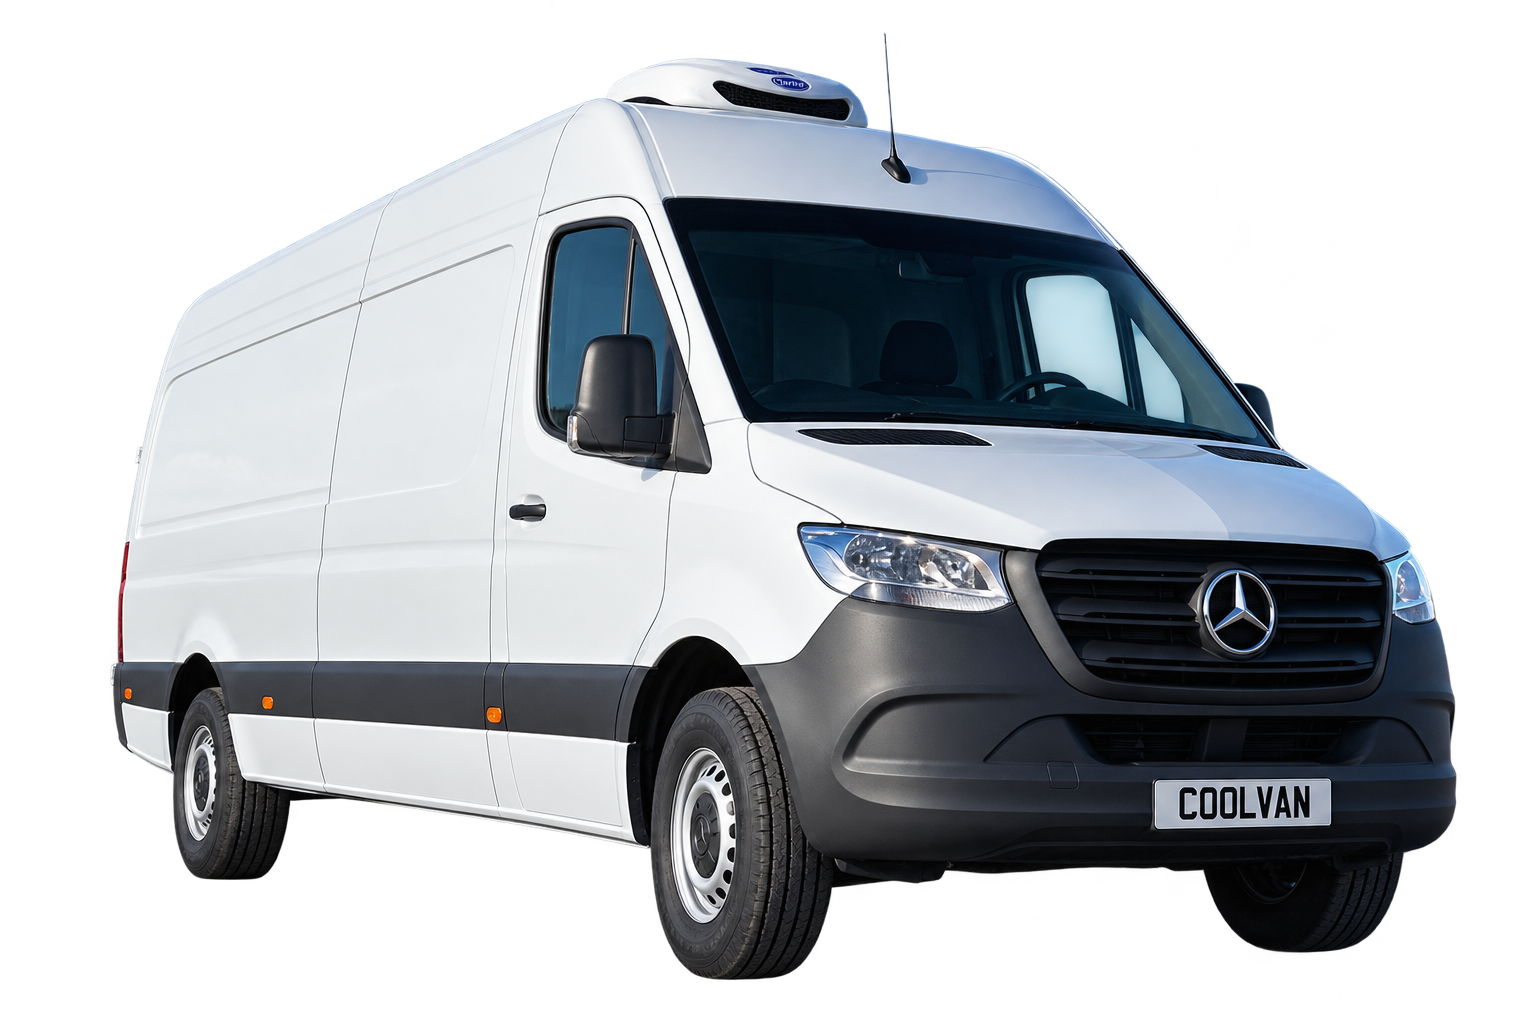
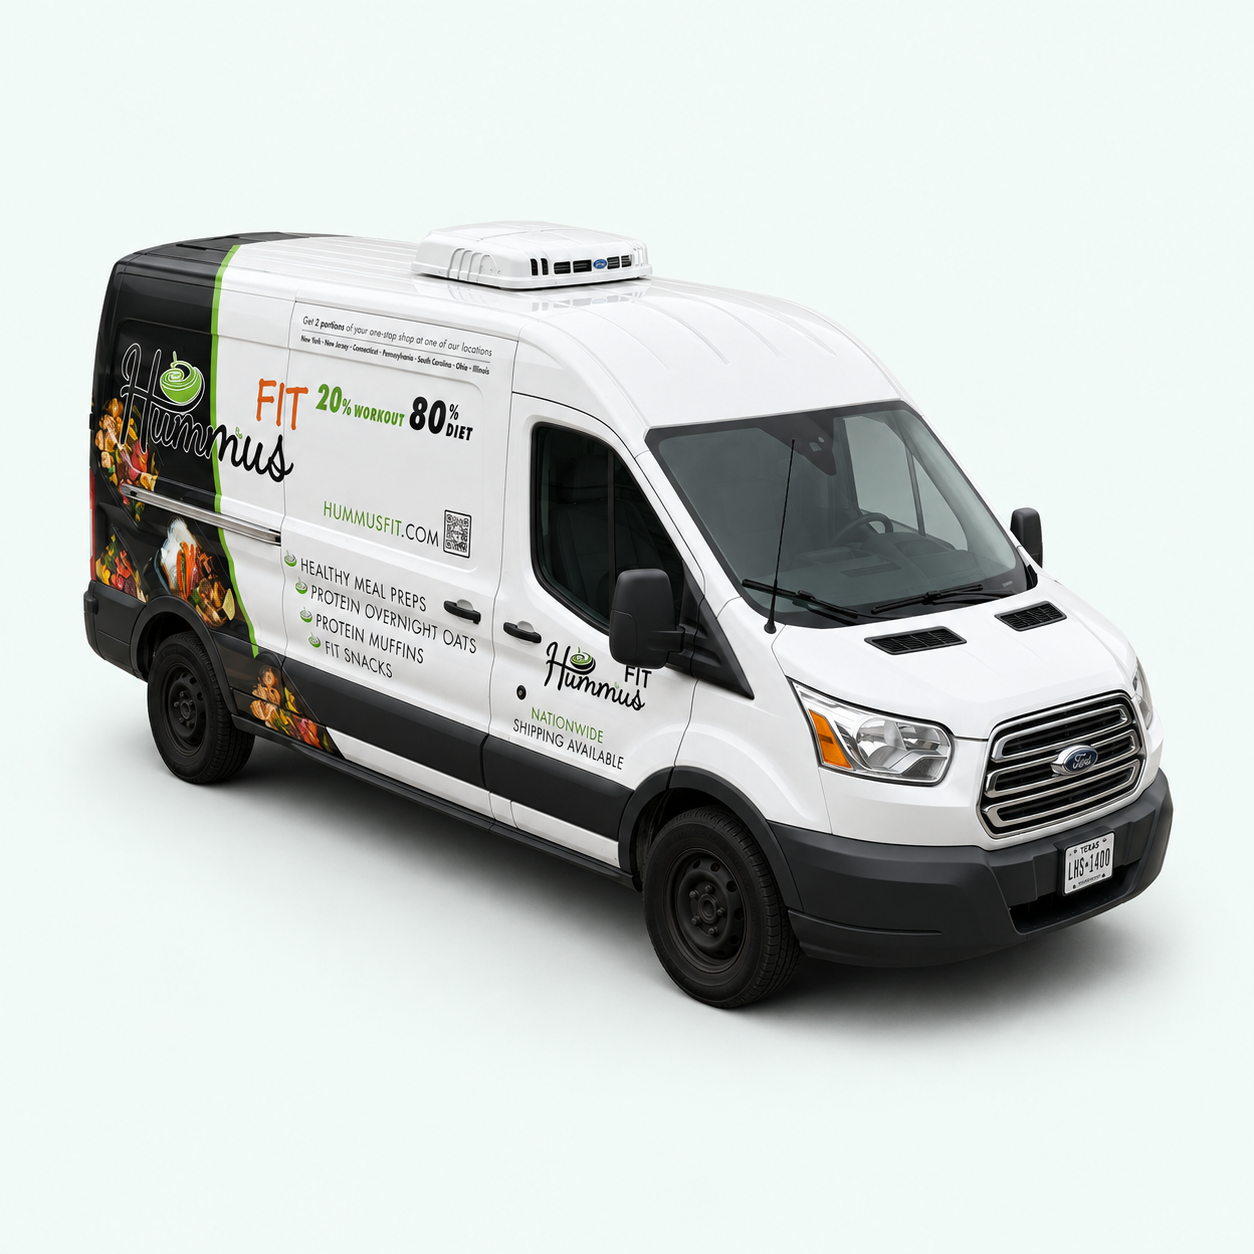
Add remaining fleet vehicle artwork

diff --git a/public/index.html b/public/index.html
@@ -309,10 +309,13 @@
   var vehicleArtwork = {
     '#1 mercedes blue': '/vehicles/mercedes-blue-1.png',
     '#2 mercedes small': '/vehicles/mercedes-small-2.png',
+    '#3 mercedes small2': '/vehicles/mercedes-small2-3.png',
     '#4 mercedes orange': '/vehicles/mercedes-orange-4.png',
     '#6 black ford': '/vehicles/black-ford-6.png',
     '#7 white mercedes': '/vehicles/white-mercedes-7.png',
-    '#9 transit 350 - (1)': '/vehicles/transit-350-9.png'
+    '#8 2016 ford transit': '/vehicles/ford-transit-2016-8.png',
+    '#9 transit 350 - (1)': '/vehicles/transit-350-9.png',
+    'ram': '/vehicles/dodge-ram.png'
   };
 
   function normalizeVehicleName(value){
